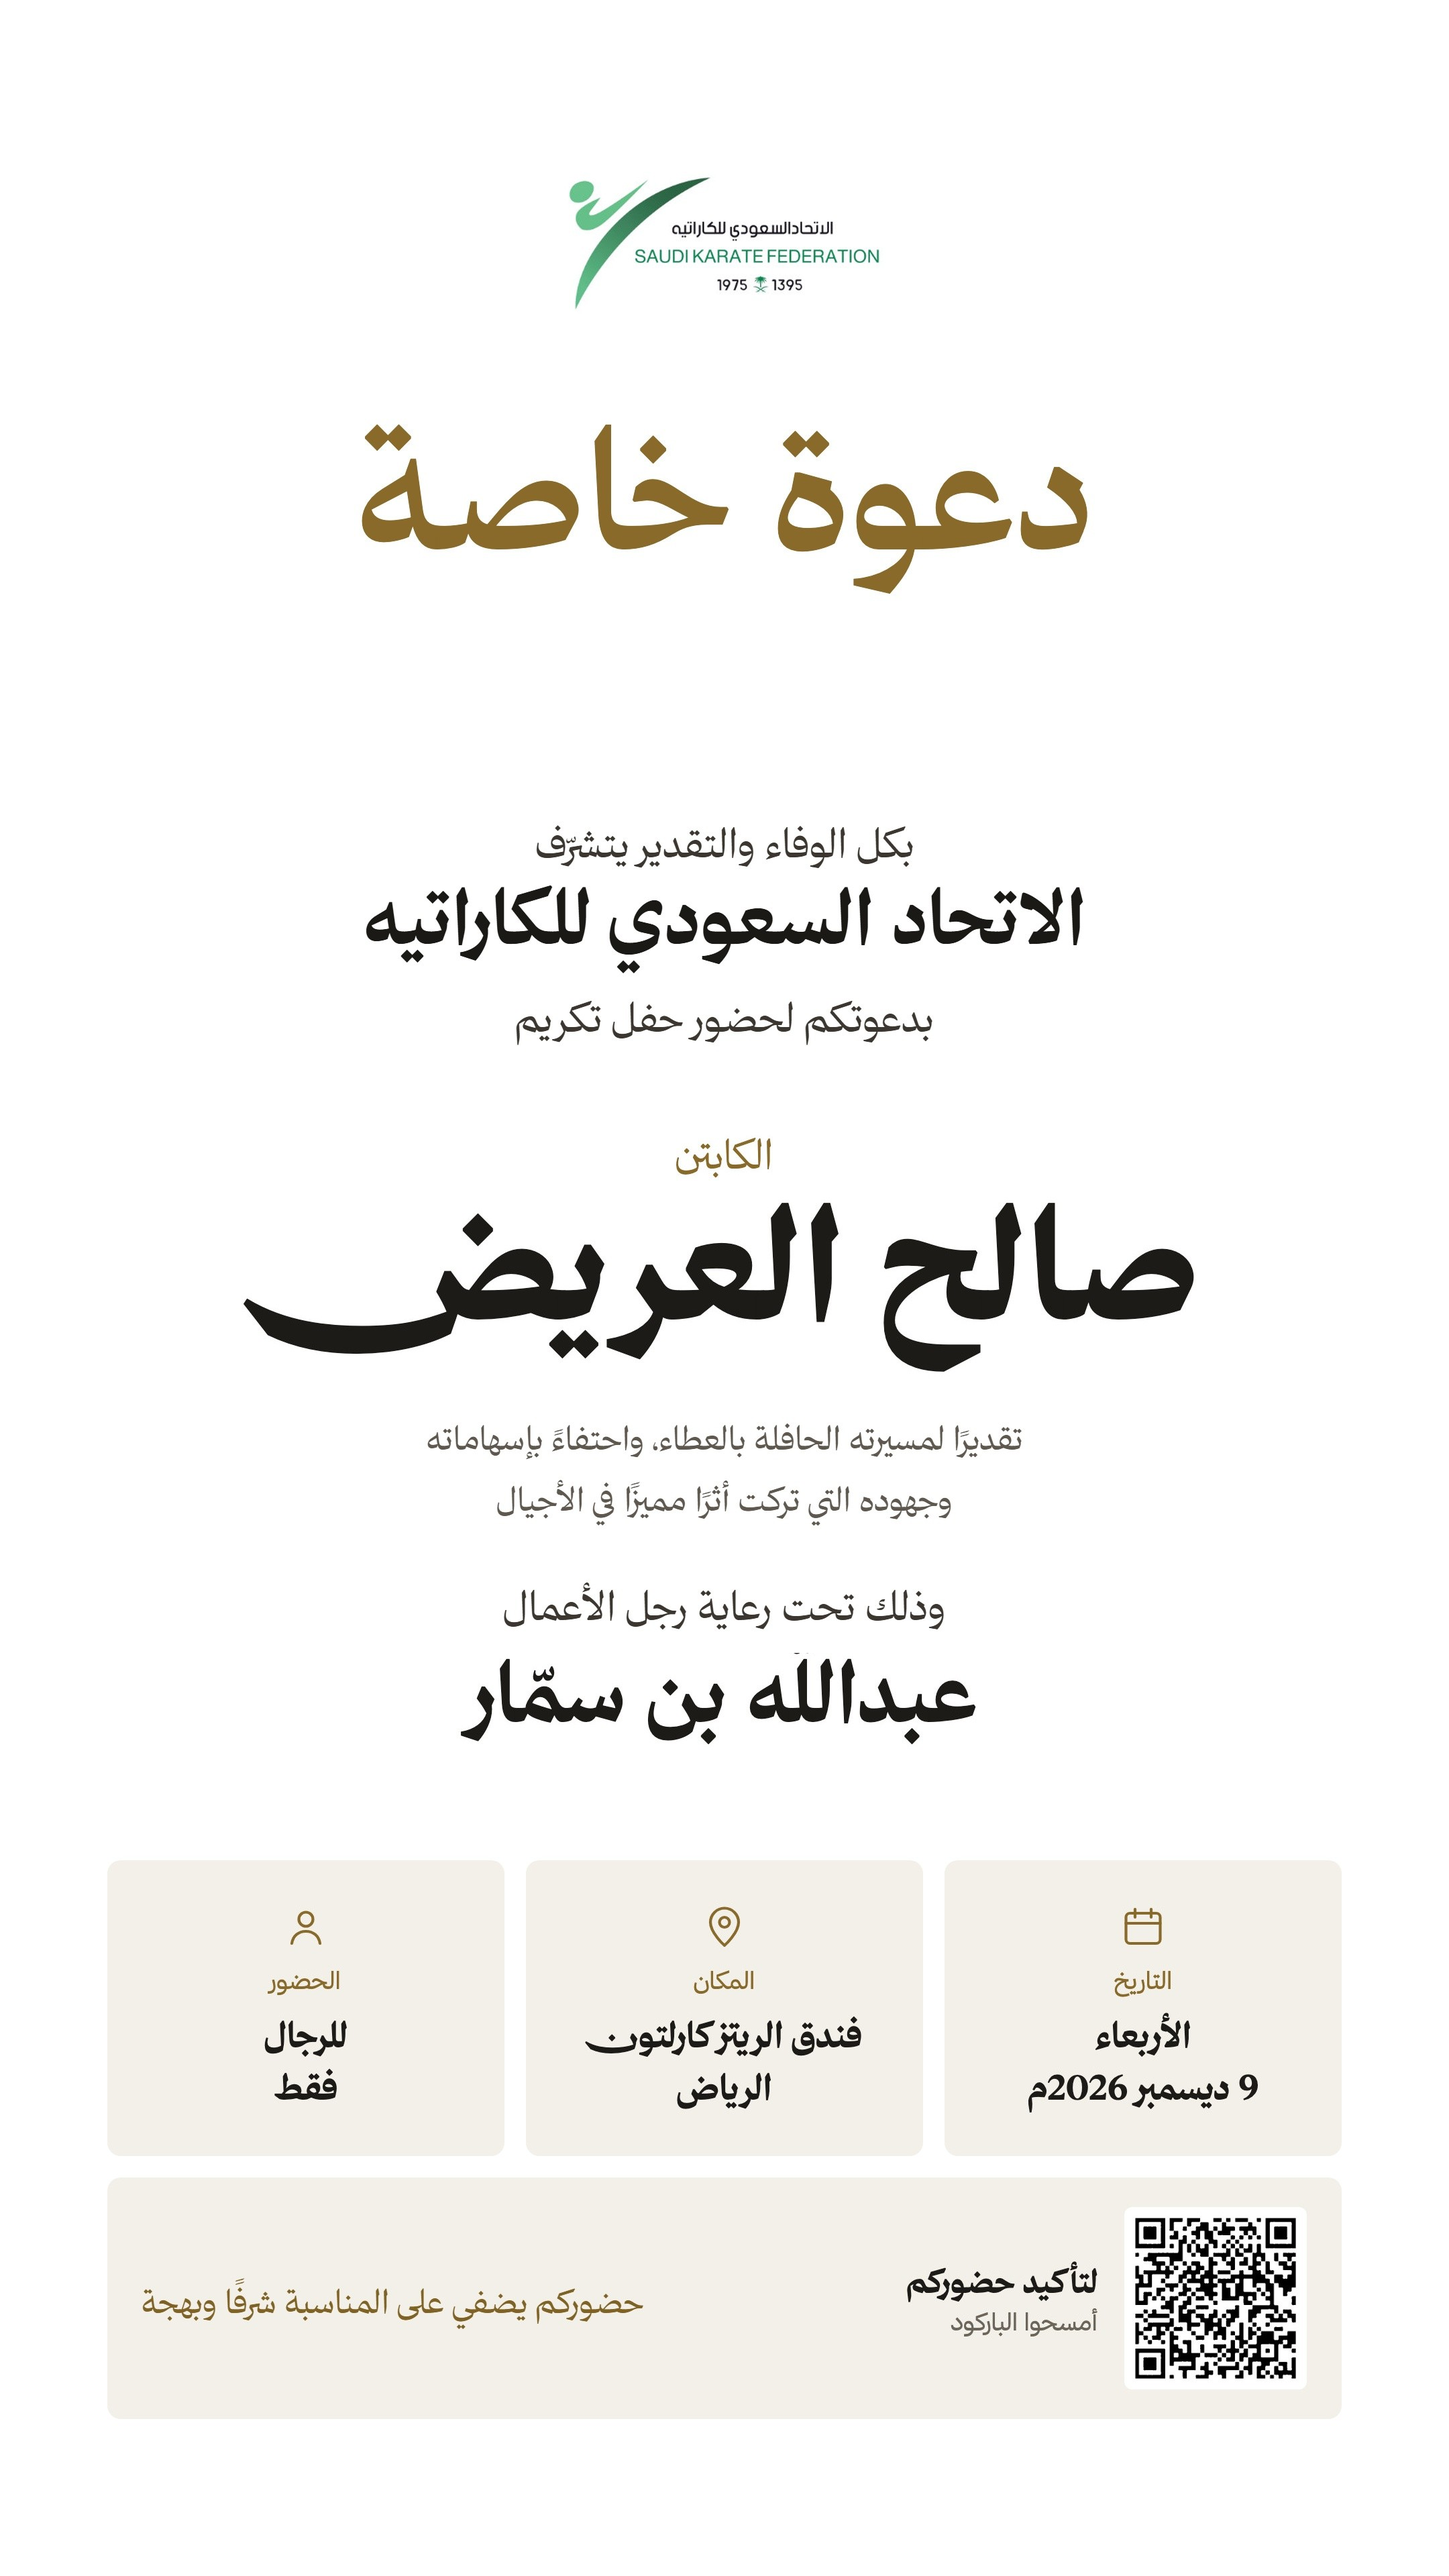
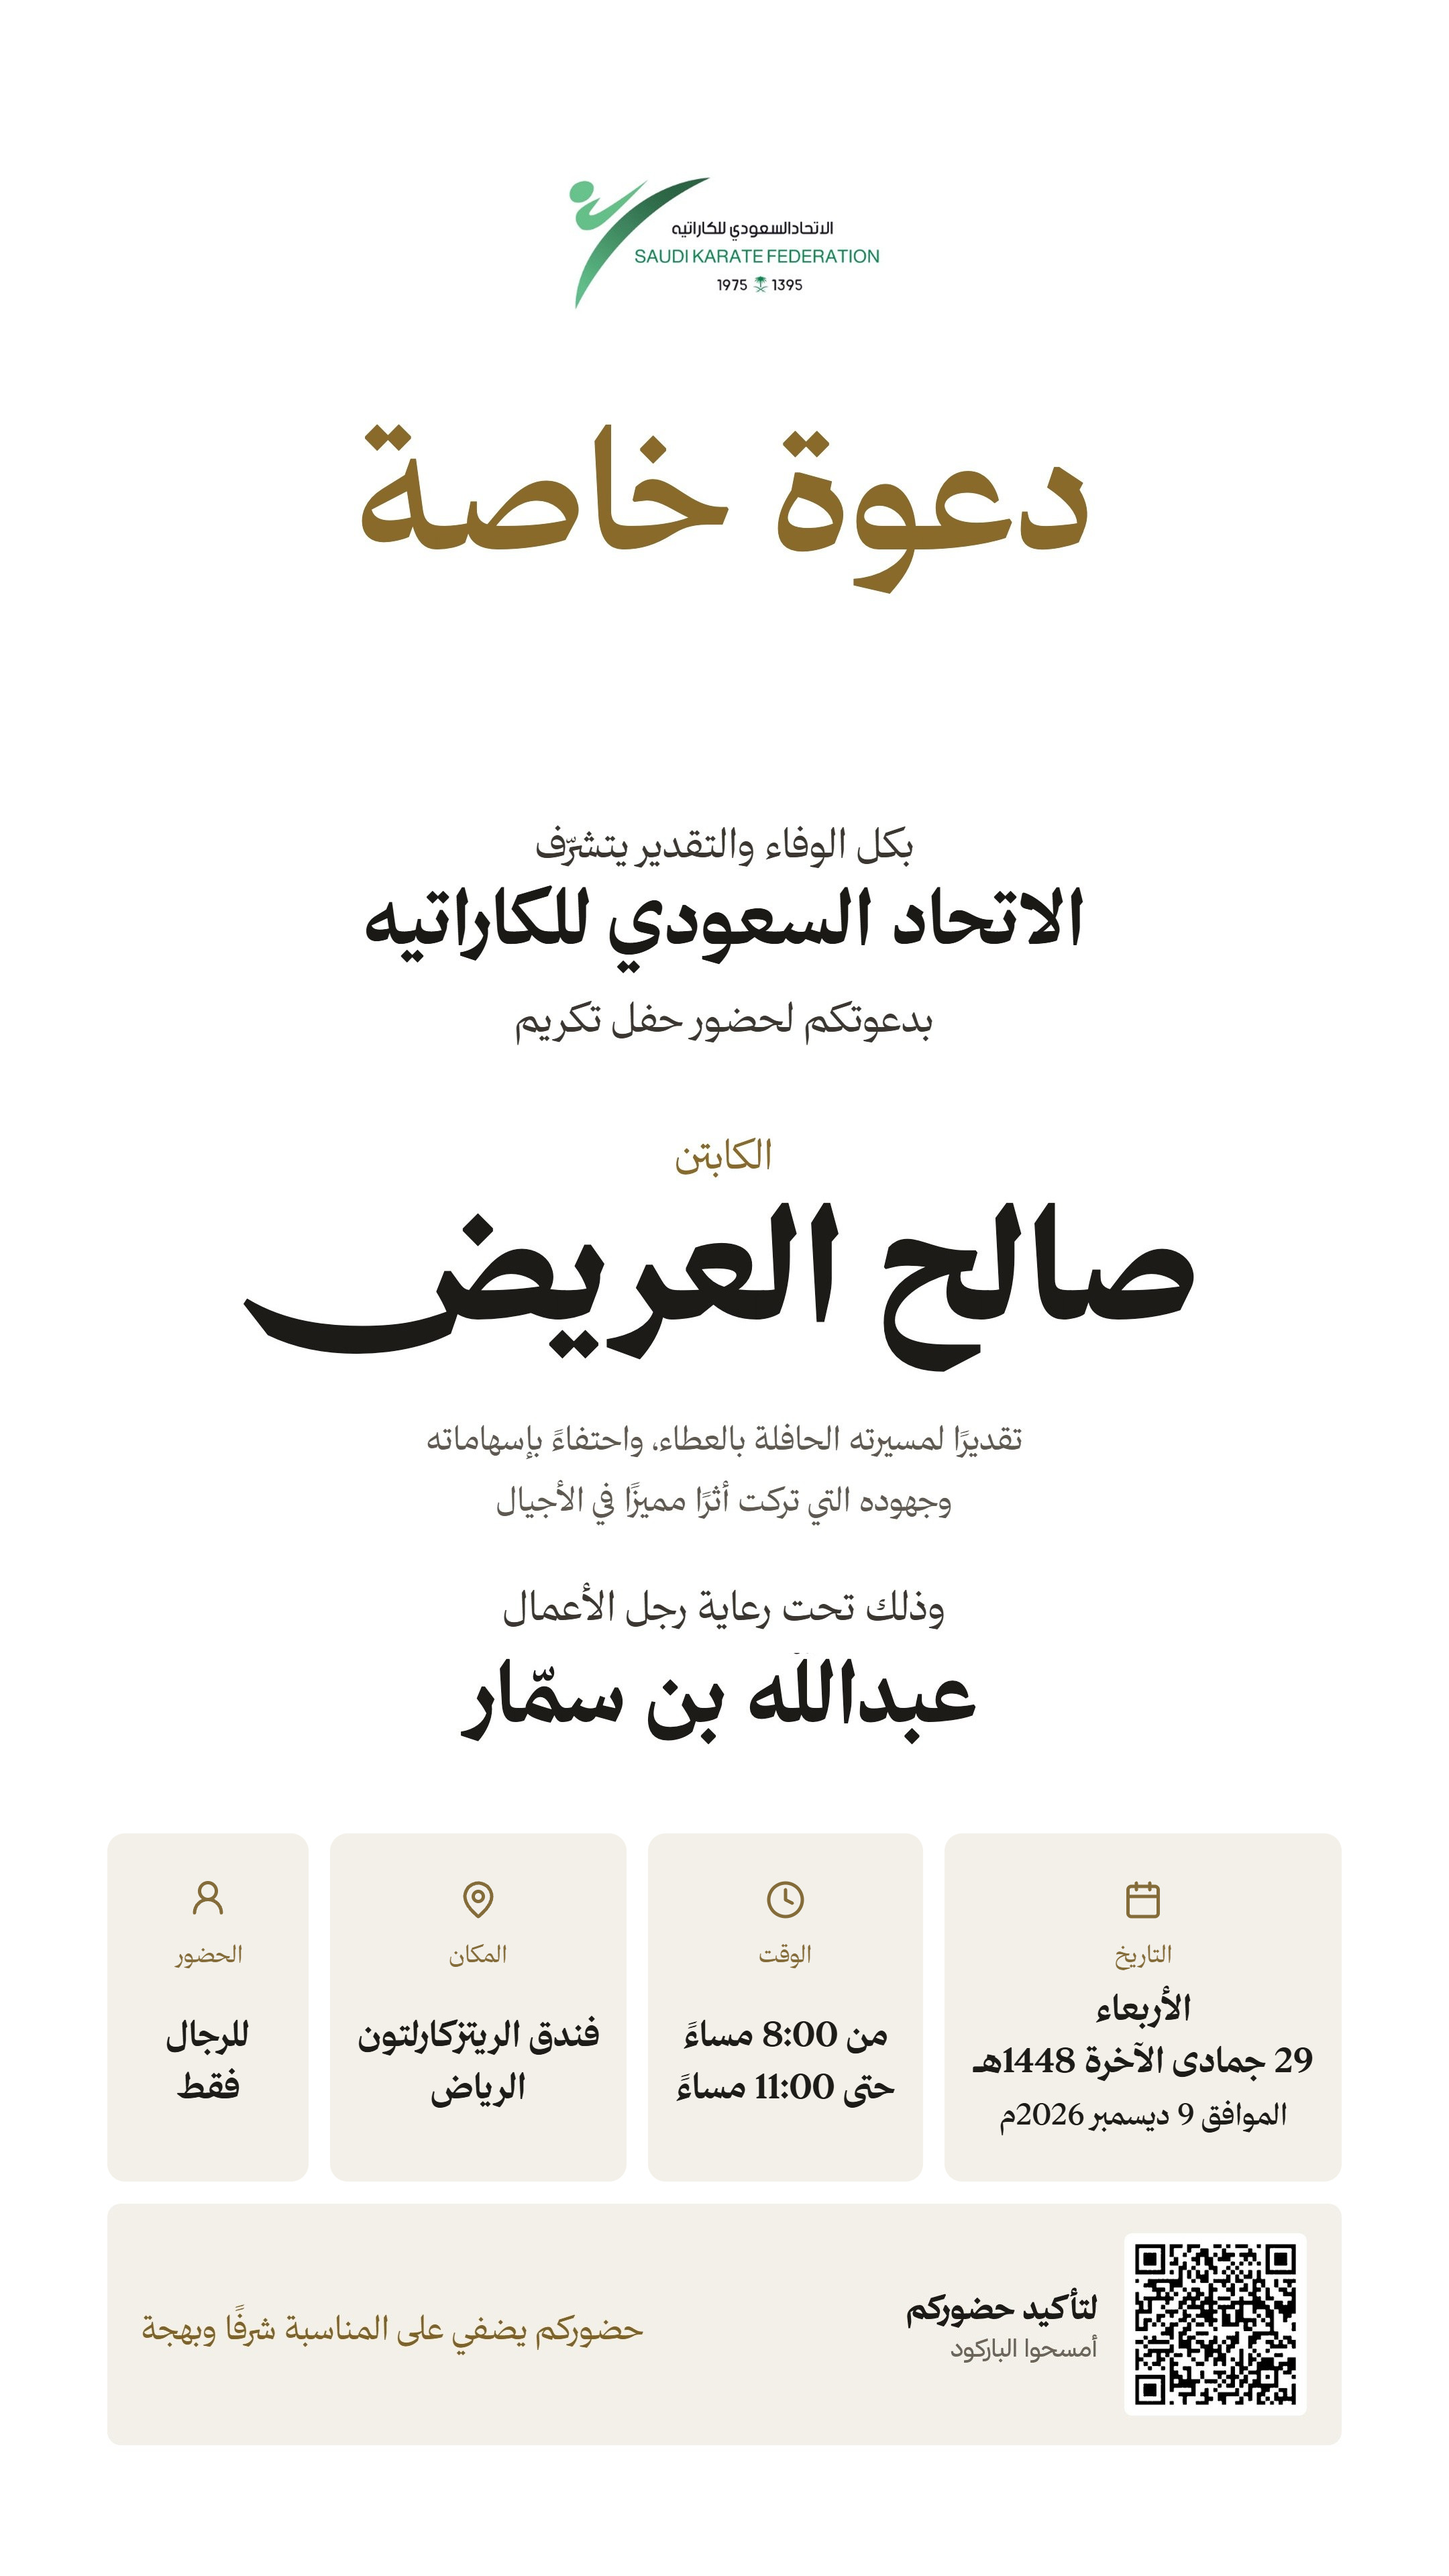
إضافة التاريخ الهجري ووقت الحفل (أربع خانات)

diff --git a/index.html b/index.html
@@ -85,7 +85,7 @@ function build(n){
   doc.setProperties({title:n,subject:'دعوة خاصة — حفل تكريم الكابتن صالح العريض'});
   doc.addImage(url,'JPEG',0,0,540,960,undefined,'FAST');
   // QR + «لتأكيد حضوركم» area (2160px image = 540pt, 4px per pt)
-  doc.link(335,818,160,76,{url:RSVP});
+  doc.link(335,828,160,76,{url:RSVP});
   const blob=doc.output('blob');
   const fn=fileName(n);
   cache={name:n,file:new File([blob],fn,{type:'application/pdf'})};
